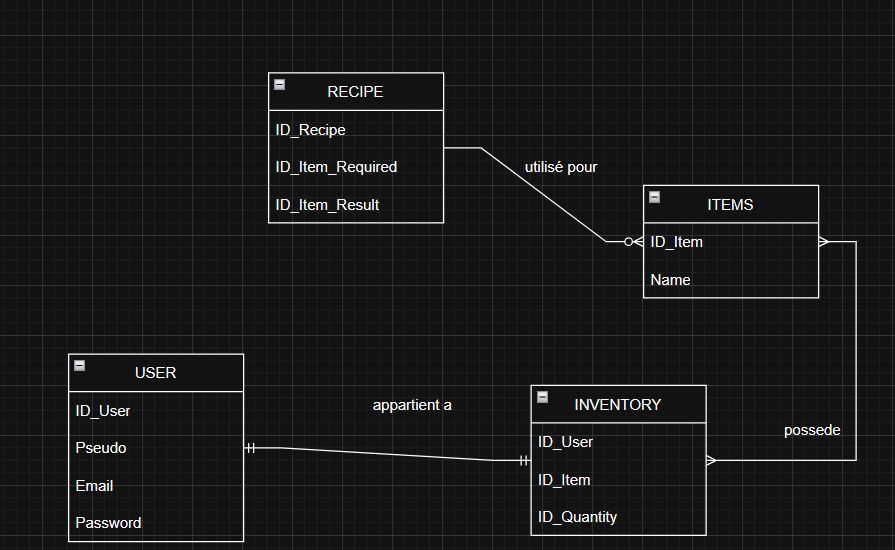
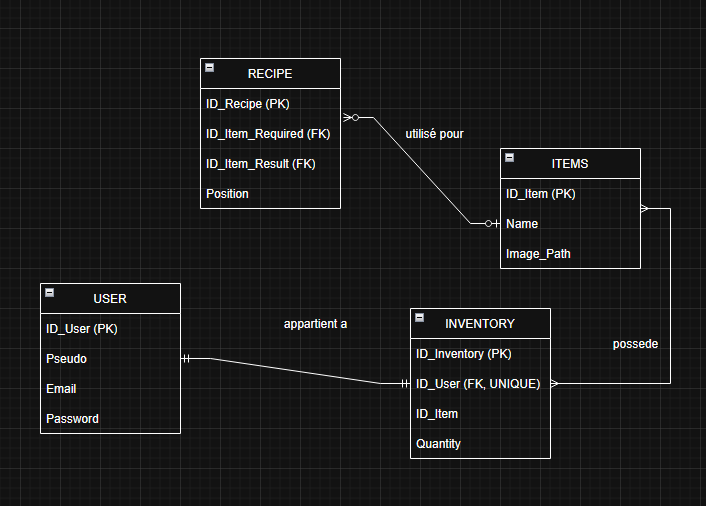
docs(readme): finished readme + mcd & mld image

diff --git a/README.md b/README.md
@@ -1,0 +1,331 @@
+# Projet Minecraft Craft
+
+## Instructions de démarrage (Get Started)
+
+### Prérequis
+
+- Node.js
+
+### Installation
+
+1. Clonez le dépôt
+   ```
+   git clone https://github.com/Naifozz/ECF-2.git
+   ```
+2. Installez les dépendances
+
+   ```
+   cd ECF-2
+   cd backend
+   npm install
+
+   cd ..
+   cd frontend
+   npm install
+   ```
+
+3. Démarrez l'api
+
+   Ouvrez un terminal puis aller dans le fichier backend et faites
+
+   ```
+   npm run dev
+   ```
+
+4. Démarrez le serveur front
+
+   Puis revenez en arriere pour aller dans le fichier frontend
+
+   ```
+   "Depuis le fichier backend"
+   cd .. "revenir en arriere"
+   cd frontend
+   npm run dev
+   ```
+
+## Conception de la base de données
+
+### Structure de la base de données
+
+La base de données est structurée autour des entités principales suivantes :
+
+- **ITEM** : Représente les objets du jeu Minecraft
+- **RECIPE** : Contient les recettes de craft pour fabriquer des items
+- **ITEM_RECIPE** : Table de jointure pour la relation many-to-many entre les recettes et les ingrédients, avec la position de l'ingrédient
+- **USER** : Stocke les informations des utilisateurs pour l'authentification
+- **INVENTORY** : Représente l'inventaire d'un utilisateur
+- **ITEM_INV** : Table de jointure entre Items et Inventory pour lister les items et leurs quantités dans l'inventaire
+
+### Relations entre les entités
+
+- **Item - Recipe** : Un item peut être le résultat de plusieurs recettes, mais une recette ne produit qu'un seul item résultat (One-to-Many)
+- **Recipe - Item (en tant qu'ingrédients)** : Une recette peut contenir plusieurs items comme ingrédients, et un item peut être utilisé dans plusieurs recettes (Many-to-Many)
+  - Cette relation est implémentée via la table de jointure **ITEM_RECIPE** qui stocke également la position de l'ingrédient dans la grille de craft (1-9)
+- **User - Inventory** : Chaque utilisateur possède un inventaire unique (One-to-One)
+- **Inventory - Item** : Un inventaire contient plusieurs items en quantité variable (Many-to-Many via ITEM_INV)
+
+## Requêtes SQL pour les opérations CRUD
+
+### Items
+
+- **Create** :
+  ```sql
+  INSERT INTO ITEM (Name, Image_Path) VALUES (?, ?);
+  ```
+- **Get** :
+
+  ```sql
+  -- Lire tous les items
+  SELECT * FROM ITEM;
+
+  -- Lire un item spécifique
+  SELECT * FROM ITEM WHERE ID_Item = ?;
+  ```
+
+- **Update** :
+  ```sql
+  UPDATE ITEM SET Name = ?, Image_Path = ? WHERE ID_Item = ?;
+  ```
+- **Delete** :
+  ```sql
+  DELETE FROM ITEM WHERE ID_Item = ?;
+  ```
+- **IsItemUsedInRecipes** :
+  ```sql
+  SELECT COUNT(*) as count FROM ITEM_RECIPE WHERE ID_Item = ?;
+  ```
+
+### Recipes
+
+- **Create** :
+
+  ```sql
+  -- Créer une recette
+  INSERT INTO RECIPE (ID_Item_Result) VALUES (?);
+
+  -- Ajouter les ingrédients à la recette
+  INSERT INTO ITEM_RECIPE (ID_Recipe, ID_Item, Position) VALUES (?, ?, ?);
+  ```
+
+- **Get** :
+
+  ```sql
+  -- Lire toutes les recettes
+  SELECT * FROM RECIPE;
+
+  -- Lire toutes les recettes avec leurs ingrédients
+  SELECT r.*, i.ID_Item, i.Name, ir.Position
+  FROM RECIPE r
+  JOIN ITEM_RECIPE ir ON r.ID_Recipe = ir.ID_Recipe
+  JOIN ITEM i ON ir.ID_Item = i.ID_Item;
+
+  -- Lire une recette spécifique
+  SELECT * FROM RECIPE WHERE ID_Recipe = ?;
+
+  -- Lire une recette spécifique avec ses ingrédients
+  SELECT r.*, i.ID_Item, i.Name, ir.Position
+  FROM RECIPE r
+  JOIN ITEM_RECIPE ir ON r.ID_Recipe = ir.ID_Recipe
+  JOIN ITEM i ON ir.ID_Item = i.ID_Item
+  WHERE r.ID_Recipe = ?;
+  ```
+
+- **Update** :
+
+  ```sql
+  -- Mettre à jour une recette
+  UPDATE RECIPE SET ID_Item_Result = ? WHERE ID_Recipe = ?;
+
+  -- Supprimer les anciens ingrédients
+  DELETE FROM ITEM_RECIPE WHERE ID_Recipe = ?;
+
+  -- Ajouter les nouveaux ingrédients
+  INSERT INTO ITEM_RECIPE (ID_Recipe, ID_Item, Position) VALUES (?, ?, ?);
+  ```
+
+- **Delete** :
+
+  ```sql
+  -- Supprimer les ingrédients associés
+  DELETE FROM ITEM_RECIPE WHERE ID_Recipe = ?;
+
+  -- Supprimer la recette
+  DELETE FROM RECIPE WHERE ID_Recipe = ?;
+  ```
+
+### Users
+
+- **Create** :
+  ```sql
+  INSERT INTO USER (Pseudo, Email, Password) VALUES (?, ?, ?);
+  ```
+- **Read** :
+
+  ```sql
+  -- Lire tous les utilisateurs
+  SELECT * FROM USER;
+
+  -- Lire un utilisateur spécifique
+  SELECT * FROM USER WHERE ID_User = ?;
+
+  -- Rechercher un utilisateur par email
+  SELECT * FROM USER WHERE Email = ?;
+  ```
+
+- **Update** :
+  ```sql
+  UPDATE USER SET Pseudo = ?, Email = ?, Password = ? WHERE ID_User = ?;
+  ```
+- **Delete** :
+  ```sql
+  DELETE FROM USER WHERE ID_User = ?;
+  ```
+
+### Inventory
+
+- **Create** :
+  ```sql
+  INSERT INTO INVENTORY (ID_User) VALUES (?);
+  ```
+- **Read** :
+  ```sql
+  SELECT i.ID_Inventory, i.ID_User, ii.ID_Item, it.Name, it.Image_Path, ii.Quantity
+  FROM INVENTORY i
+  JOIN ITEM_INV ii ON i.ID_Inventory = ii.ID_Inventory
+  JOIN ITEM it ON ii.ID_Item = it.ID_Item
+  WHERE i.ID_User = ?;
+  ```
+- **Delete** :
+  ```sql
+  DELETE FROM INVENTORY WHERE ID_User = ?;
+  ```
+
+## MCD (Modèle Conceptuel de Données)
+
+![alt text](/docs/mcd.png)
+Le MCD montre les relations entre nos différentes entités:
+
+```
+USER (1,1) ---- (0,1) INVENTORY (0,N) ---- (0,N) ITEM (1,N) ---- (0,N) RECIPE
+```
+
+- Un utilisateur peut avoir au maximum un inventaire et un inventaire appartient à un seul utilisateur
+- Un inventaire peut contenir plusieurs items et un item peut être dans plusieurs inventaires
+- Un item peut être le résultat de plusieurs recettes
+- Une recette peut contenir plusieurs items comme ingrédients (avec une position spécifique)
+
+### Description du MCD
+
+#### Entités
+
+- **Item** :
+
+  - ID_Item (PK)
+  - Name
+  - Image_Path
+
+- **Recipe** :
+
+  - ID_Recipe (PK)
+  - ID_Item_Result (FK)
+  - ID_Item_Required (FK)
+  - Position
+
+- **User** :
+
+  - ID_User (PK)
+  - Pseudo
+  - Email
+  - Password
+
+- **Inventory** :
+
+  - ID_Inventory (PK)
+  - ID_User (FK, UNIQUE)
+  - ID_Item (FK)
+  - Quantity
+
+#### Relations
+
+- User → Inventory : Un utilisateur possède un inventaire unique (1-to-1)
+- Inventory → Item (via ITEM_INV) : Un inventaire contient plusieurs items avec des quantités
+- Item → Recipe (résultat) : Un item peut être le résultat de plusieurs recettes
+- Recipe → Item (via ITEM_RECIPE) : Une recette utilise plusieurs items comme ingrédients à des positions spécifiques
+
+## MLD (Modèle Logique des Données)
+
+![alt text](/docs/mld.png)
+MLD Disponible sur dbdiagram : https://dbdiagram.io/d/67f90d534f7afba1843fbed0
+
+### Structure du MLD
+
+Le MLD présente une base de données structurée pour une application de crafting inspirée de Minecraft avec les tables suivantes:
+
+#### Tables principales
+
+1. **USER**: Stocke les informations utilisateur
+
+   - ID_User integer [primary key]
+   - Pseudo varchar
+   - Email varchar
+   - Password varchar
+
+2. **INVENTORY**: Représente l'inventaire unique de chaque utilisateur
+
+   - ID_Inventory integer [primary key]
+   - ID_User integer
+
+3. **ITEM**: Catalogue des objets disponibles
+
+   - ID_Item integer [primary key]
+   - Name varchar
+   - Image_Path varchar
+
+4. **RECIPE**: Recettes de craft
+   - ID_Recipe integer [primary key]
+   - ID_Item_Result integer
+
+#### Tables de jointure
+
+5. **ITEM_INV**: Relation entre inventaires et items
+
+   - ID_Inventory integer
+   - ID_Item integer
+   - Quantity varchar
+
+6. **ITEM_RECIPE**: Stocke les ingrédients nécessaires à chaque recette
+   - ID_Item_Recipe integer [primary key]
+   - ID_Recipe integer
+   - ID_Item integer
+   - Position integer
+
+#### Relations
+
+- Ref: RECIPE.ID_Recipe < ITEM_RECIPE.ID_Recipe
+- Ref: ITEM.ID_Item - RECIPE.ID_Item_Result
+- Ref: ITEM.ID_Item < ITEM_RECIPE.ID_Item
+- Ref: ITEM.ID_Item < ITEM_INV.ID_Item
+- Ref: INVENTORY.ID_Inventory < ITEM_INV.ID_Inventory
+- Ref: USER.ID_User - INVENTORY.ID_User
+
+#### Caractéristiques notables
+
+1. **Position des ingrédients**: La table ITEM_RECIPE stocke la position (1-9) des ingrédients dans la grille de craft, essentielle pour reproduire les recettes Minecraft.
+2. **Vérification des dépendances**: Le système vérifie si un item est utilisé dans des recettes avant de permettre sa suppression.
+
+## Fonctionnalités implémentées
+
+- Gestion complète des items (création, modification, suppression)
+- Gestion des recettes avec positionnement des ingrédients dans la grille de craft 3x3
+- Interface utilisateur intuitive pour la création et modification de recettes
+- Système d'authentification utilisateur avec gestion de sessions
+- Inventaire personnel pour chaque utilisateur
+- Vérification des dépendances avant suppression d'un item (protection des références)
+
+## Technologies utilisées
+
+- Frontend : HTML, CSS, JavaScript
+- Backend : Node.js, Express
+- Base de données : SQLite avec abstraction via la bibliothèque `openDb`
+- Authentification : MDP hashé avec bcrypt, session avec Express-session
+- Architecture : CRUDS (Controller, Service, Repository)
